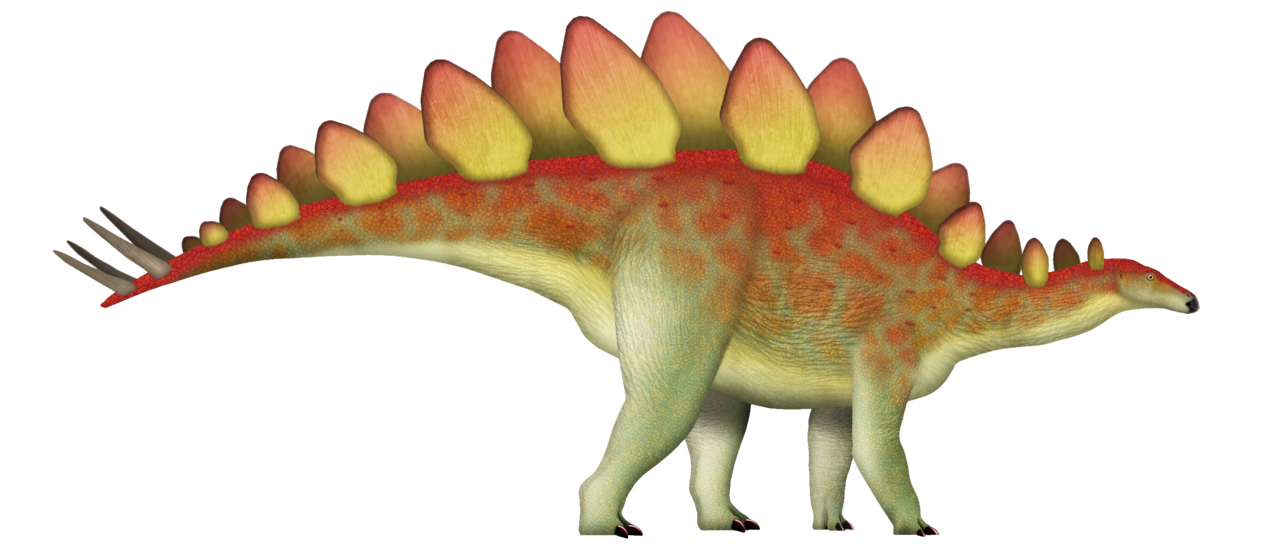
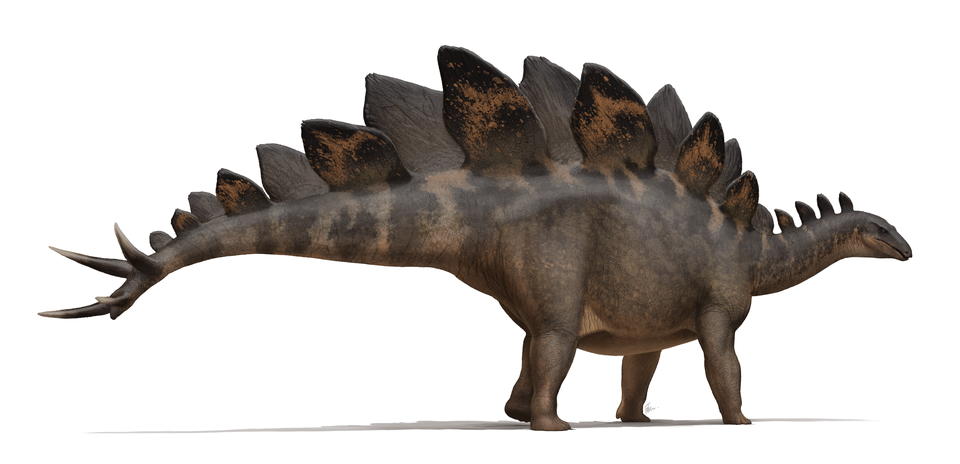
Catalog batch 1: +6 dinosaurs (→107) and re-diversified art
New (full researched records + curated, free-licensed art):
Giganotosaurus, Amargasaurus, Gallimimus, Microraptor, Guanlong, Troodon.
Re-sourced art for Stegosaurus (Fred Wierum) and Therizinosaurus (PaleoNeolitic)
to start breaking the single-artist monotony. Art spans five artists
(Bogdanov, Wierum, PaleoNeolitic, Conty) — each image visually vetted; a couple
of auto-picks (a park-statue photo, a skeletal diagram) were caught and replaced.

Tests made catalog-size-agnostic (unique-id + cumulative-tier checks derive from
the data; image regex now allows jpg) so future batches don't churn them.

diff --git a/src/lib/quiz.test.ts b/src/lib/quiz.test.ts
@@ -14,25 +14,33 @@ import {
 const dinosaurs = dinosaursJson as Dinosaur[];
 
 describe("dinosaur database", () => {
-  it("has 101 complete records with unique ids and local images", () => {
-    expect(dinosaurs).toHaveLength(101);
+  it("has complete records with unique ids and local images", () => {
     const ids = new Set(dinosaurs.map((d) => d.id));
-    expect(ids.size).toBe(101);
+    expect(ids.size).toBe(dinosaurs.length); // ids are unique
+    expect(dinosaurs.length).toBeGreaterThanOrEqual(107); // grows toward 200
     for (const d of dinosaurs) {
-      expect(d.image).toMatch(/^\/dinos\/.+\.png$/);
+      expect(d.image).toMatch(/^\/dinos\/.+\.(png|jpe?g)$/);
       expect(d.imageAttribution).toContain("Wikimedia Commons");
       expect(d.interestingFacts.length).toBeGreaterThanOrEqual(3);
       expect(d.description.length).toBeGreaterThan(80);
-      expect([1, 2, 3, 4, 5]).toContain(d.difficulty); // M2 ships tiers 1–5
+      expect([1, 2, 3, 4, 5]).toContain(d.difficulty); // tiers 1–5
     }
   });
 
   it("difficulty pools are cumulative across all five tiers", () => {
-    expect(poolFor(dinosaurs, "easy")).toHaveLength(12); // tier 1
-    expect(poolFor(dinosaurs, "normal")).toHaveLength(25); // tiers 1–2
-    expect(poolFor(dinosaurs, "hard")).toHaveLength(43); // tiers 1–3
-    expect(poolFor(dinosaurs, "very-hard")).toHaveLength(73); // tiers 1–4
-    expect(poolFor(dinosaurs, "legendary")).toHaveLength(101); // tiers 1–5
+    // Size-agnostic (the catalog grows in batches): each tier is a superset of
+    // the previous, and the top tier covers the whole catalog.
+    const easy = poolFor(dinosaurs, "easy").length;
+    const normal = poolFor(dinosaurs, "normal").length;
+    const hard = poolFor(dinosaurs, "hard").length;
+    const veryHard = poolFor(dinosaurs, "very-hard").length;
+    const legendary = poolFor(dinosaurs, "legendary").length;
+    expect(easy).toBeGreaterThan(0);
+    expect(normal).toBeGreaterThanOrEqual(easy);
+    expect(hard).toBeGreaterThanOrEqual(normal);
+    expect(veryHard).toBeGreaterThanOrEqual(hard);
+    expect(legendary).toBeGreaterThanOrEqual(veryHard);
+    expect(legendary).toBe(dinosaurs.length);
   });
 });
 
